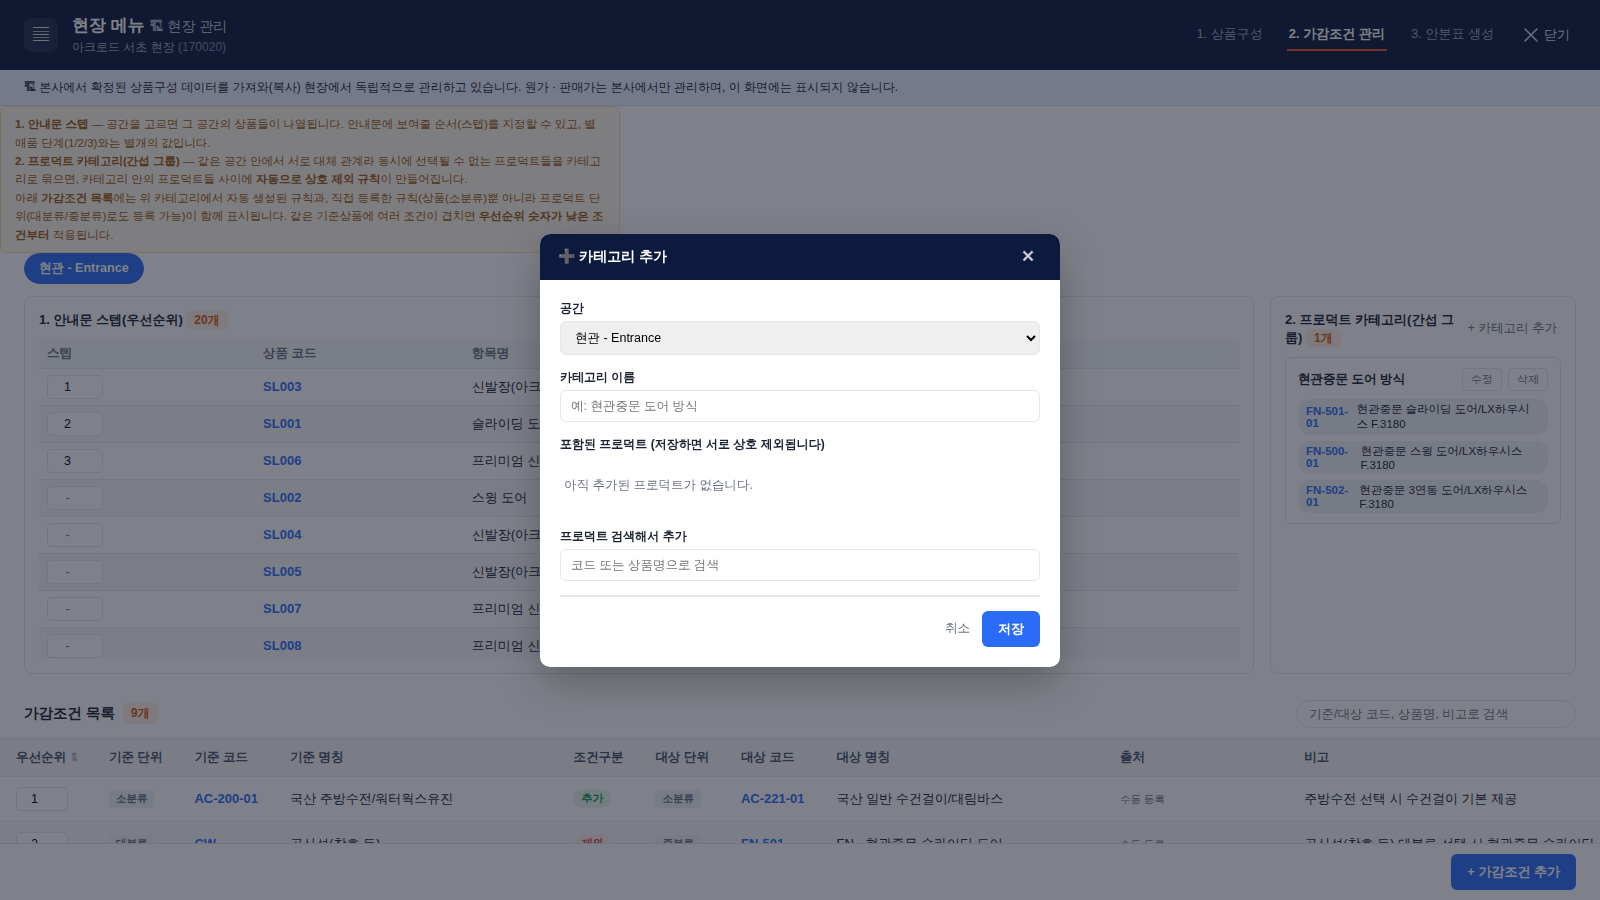
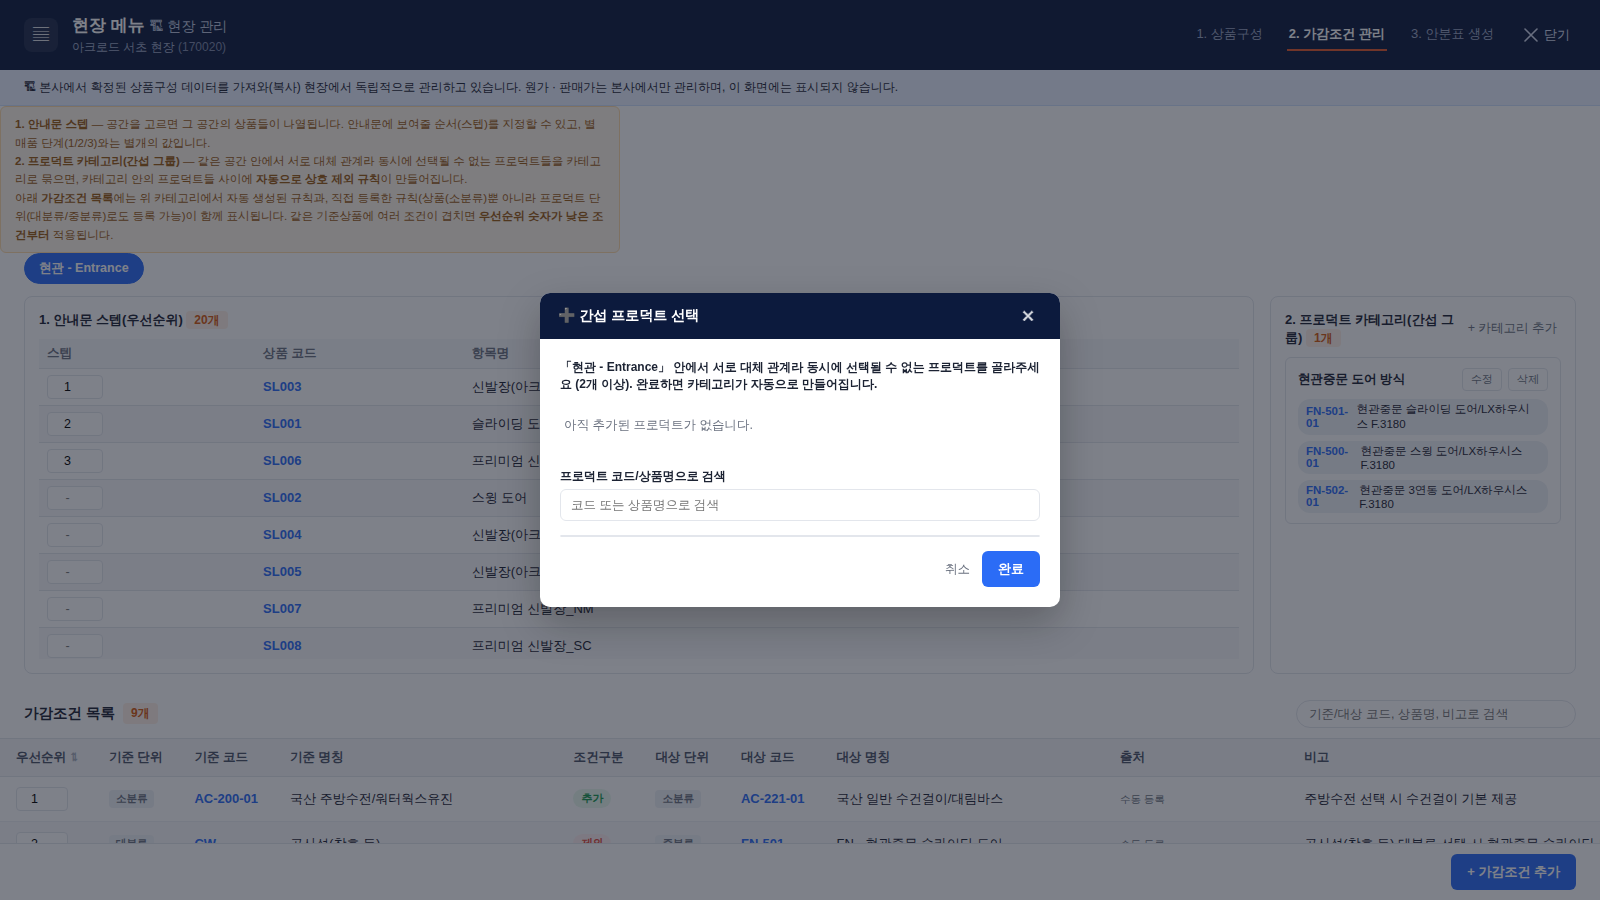
Update screen-spec docs to match the simplified 프로덕트 카테고리 popup
Reflect the new browse-and-check flow (no name/space fields, auto-named
category) in both screen-spec.js and the regenerated screen-spec-deck.html,
and refresh the popup's screenshot.

Changed region(s): [[0.3125, 0.2489, 0.6875, 0.7467]]

diff --git a/screen-spec-deck.html b/screen-spec-deck.html
@@ -175,7 +175,7 @@ body {
 <a class="toc-row" href="#pop-package"><span class="toc-no">27</span><span class="toc-tag toc-tag-popup">팝업</span><span class="toc-name">📦 안분표 패키지 생성 (현재안 - 평형 1개씩)</span><span class="toc-menu">STEP 5. 안분표 생성</span></a>
 <a class="toc-row" href="#pop-package-map"><span class="toc-no">28</span><span class="toc-tag toc-tag-popup">팝업</span><span class="toc-name">📦 공통 패키지 생성 — 평형 일괄 매핑 (개선안)</span><span class="toc-menu">STEP 5. 안분표 생성</span></a>
 <a class="toc-row" href="#pop-gagam"><span class="toc-no">29</span><span class="toc-tag toc-tag-popup">팝업</span><span class="toc-name">➕ 가감조건 추가/수정</span><span class="toc-menu">현장 메뉴 › 2. 가감조건 관리</span></a>
-<a class="toc-row" href="#pop-gagam-category"><span class="toc-no">30</span><span class="toc-tag toc-tag-popup">팝업</span><span class="toc-name">➕ 카테고리 추가/수정 (프로덕트 카테고리/간섭 그룹)</span><span class="toc-menu">현장 메뉴 › 2. 가감조건 관리</span></a>
+<a class="toc-row" href="#pop-gagam-category"><span class="toc-no">30</span><span class="toc-tag toc-tag-popup">팝업</span><span class="toc-name">➕ 간섭 프로덕트 선택 (프로덕트 카테고리/간섭 그룹)</span><span class="toc-menu">현장 메뉴 › 2. 가감조건 관리</span></a>
 <a class="toc-row" href="#pop-product-quick-add"><span class="toc-no">31</span><span class="toc-tag toc-tag-popup">팝업</span><span class="toc-name">🏷 프로덕트 코드 추가 (소분류 · PK)</span><span class="toc-menu">현장별 표준코드 › 전사공통코드</span></a>
     </div>
   </section>
@@ -733,18 +733,18 @@ body {
   </section>
 
   <section class="slide" id="pop-gagam-category">
-    <div class="slide-media"><img src="screen-spec-images/pop-gagam-category.png" alt="➕ 카테고리 추가/수정 (프로덕트 카테고리/간섭 그룹) 스크린샷" /></div>
+    <div class="slide-media"><img src="screen-spec-images/pop-gagam-category.png" alt="➕ 간섭 프로덕트 선택 (프로덕트 카테고리/간섭 그룹) 스크린샷" /></div>
     <div class="slide-panel">
       <div class="slide-panel-top">
         <div class="slide-eyebrow">
           <span class="tag tag-popup">팝업</span>
           <span class="menu-path">현장 메뉴 › 2. 가감조건 관리</span>
         </div>
-        <h2 class="slide-title">➕ 카테고리 추가/수정 (프로덕트 카테고리/간섭 그룹)</h2>
+        <h2 class="slide-title">➕ 간섭 프로덕트 선택 (프로덕트 카테고리/간섭 그룹)</h2>
         <div class="slide-files">site-menu.html (현장 전용, 신규)</div>
       </div>
       <ul class="slide-features">
-        <li>공간 선택, 카테고리 이름 입력</li><li>프로덕트를 코드/상품명으로 검색해서 추가, 칩 형태로 표시된 포함 프로덕트를 개별 제거 가능</li><li>저장 시 이름 입력 및 프로덕트 2개 이상 필수 — 저장하면 카테고리 내 모든 프로덕트 조합에 상호 제외 규칙이 자동 생성됨</li>
+        <li>현재 선택된 공간 안에서 서로 대체 관계인 프로덕트를 코드/상품명으로 검색해 체크박스로 여러 개 한 번에 선택(선택된 항목은 목록에서 "✓ 선택됨"으로 계속 표시되어 재검색 없이 계속 고를 수 있음)</li><li>선택된 프로덕트는 칩으로 표시되고 개별 제거 가능</li><li>카테고리 이름은 선택한 프로덕트명으로 자동 생성됨(예: "A 외 2개") — 완료 시 프로덕트 2개 이상 필수, 카테고리 내 모든 조합에 상호 제외 규칙이 자동 생성됨</li>
       </ul>
       <div class="slide-notes">📌 트리거: 가감조건 관리 › + 카테고리 추가 / 카테고리 카드의 수정 버튼</div>
       <div class="slide-foot"><span class="slide-page">30 / 31</span></div>

diff --git a/screen-spec.js b/screen-spec.js
@@ -386,11 +386,11 @@ const SCREEN_SPEC_DATA = [
     type: "popup",
     menu: "현장 메뉴 › 2. 가감조건 관리",
     files: "site-menu.html (현장 전용, 신규)",
-    name: "➕ 카테고리 추가/수정 (프로덕트 카테고리/간섭 그룹)",
+    name: "➕ 간섭 프로덕트 선택 (프로덕트 카테고리/간섭 그룹)",
     features: [
-      "공간 선택, 카테고리 이름 입력",
-      "프로덕트를 코드/상품명으로 검색해서 추가, 칩 형태로 표시된 포함 프로덕트를 개별 제거 가능",
-      "저장 시 이름 입력 및 프로덕트 2개 이상 필수 — 저장하면 카테고리 내 모든 프로덕트 조합에 상호 제외 규칙이 자동 생성됨",
+      "현재 선택된 공간 안에서 서로 대체 관계인 프로덕트를 코드/상품명으로 검색해 체크박스로 여러 개 한 번에 선택(선택된 항목은 목록에서 \"✓ 선택됨\"으로 계속 표시되어 재검색 없이 계속 고를 수 있음)",
+      "선택된 프로덕트는 칩으로 표시되고 개별 제거 가능",
+      "카테고리 이름은 선택한 프로덕트명으로 자동 생성됨(예: \"A 외 2개\") — 완료 시 프로덕트 2개 이상 필수, 카테고리 내 모든 조합에 상호 제외 규칙이 자동 생성됨",
     ],
     notes: "트리거: 가감조건 관리 › + 카테고리 추가 / 카테고리 카드의 수정 버튼",
   },
